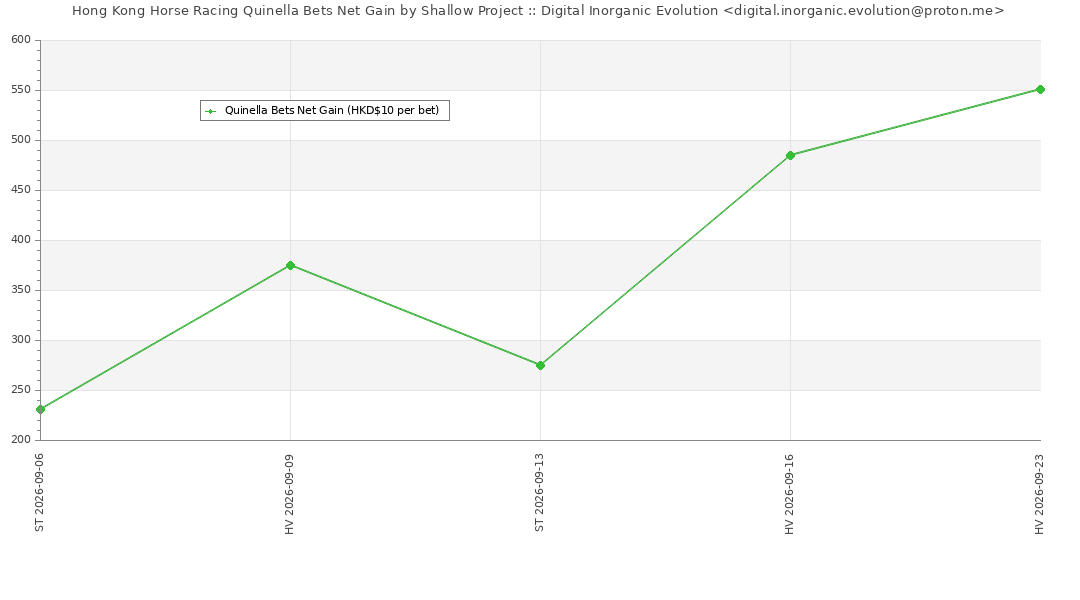
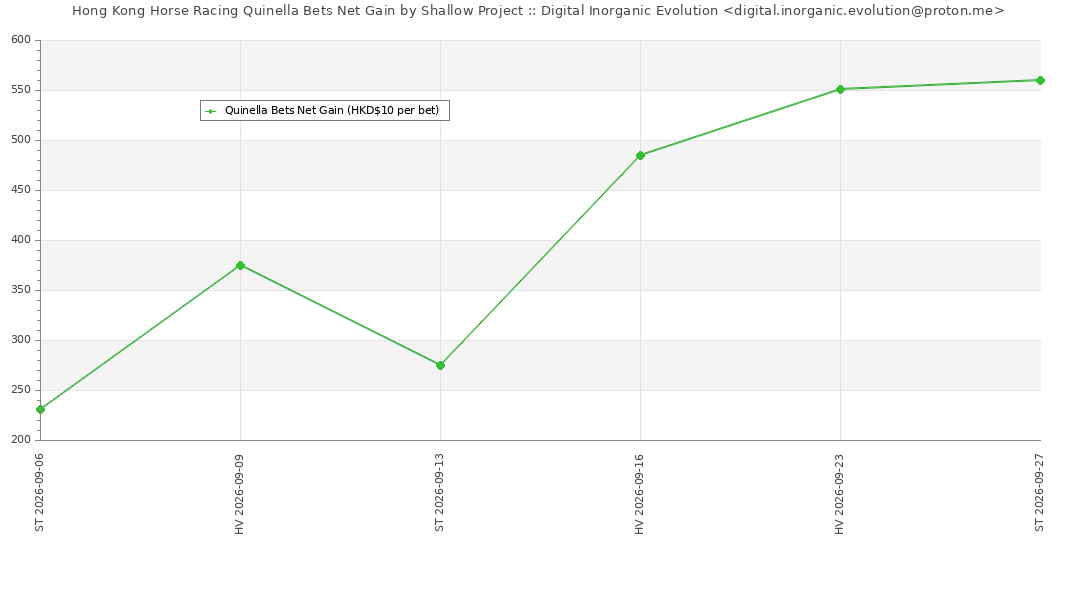
HKCJ Results 2026-09-27

diff --git a/shallow.html b/shallow.html
@@ -21,7 +21,7 @@
 <hr>
 <p>
 <h2>Betting Details</h2>
-	<table border=1><table id='shallow-table' class='cell-border compact stripe nowrap' border=1><thead><tr><th>RaceDate</th><th>RaceNo</th><th>H1HorseNo</th><th>H2HorseNo</th><th>H1Place</th><th>H2Place</th><th>Dividend Quinella</th></tr></thead><tbody><tr><td>2026-09-06</td><td>01</td><td>4</td><td>11</td><td>6</td><td>5</td><td>-10</td></tr><tr><td>2026-09-06</td><td>02</td><td>1</td><td>6</td><td>1</td><td>5</td><td>-10</td></tr><tr><td>2026-09-06</td><td>03</td><td>1</td><td>3</td><td>1</td><td>6</td><td>-10</td></tr><tr><td>2026-09-06</td><td>04</td><td>1</td><td>12</td><td>2</td><td>12</td><td>-10</td></tr><tr><td>2026-09-06</td><td>05</td><td>1</td><td>11</td><td>13</td><td>9</td><td>-10</td></tr><tr><td>2026-09-06</td><td>06</td><td>1</td><td>3</td><td><font color=red>1</font></td><td><font color=red>2</font></td><td><font color=red>153.50</font></td></tr><tr><td>2026-09-06</td><td>07</td><td>3</td><td>4</td><td>6</td><td>8</td><td>-10</td></tr><tr><td>2026-09-06</td><td>08</td><td>1</td><td>2</td><td><font color=red>1</font></td><td><font color=red>2</font></td><td><font color=red>177.50</font></td></tr><tr><td>2026-09-06</td><td>09</td><td>4</td><td>5</td><td>4</td><td>1</td><td>-10</td></tr><tr><td>2026-09-06</td><td>10</td><td>6</td><td>12</td><td>9</td><td>12</td><td>-10</td></tr><tr><td>2026-09-09</td><td>01</td><td>5</td><td>10</td><td>3</td><td>4</td><td>-10</td></tr><tr><td>2026-09-09</td><td>02</td><td>1</td><td>9</td><td>1</td><td>4</td><td>-10</td></tr><tr><td>2026-09-09</td><td>03</td><td>4</td><td>11</td><td>4</td><td>3</td><td>-10</td></tr><tr><td>2026-09-09</td><td>04</td><td>2</td><td>4</td><td>4</td><td>2</td><td>-10</td></tr><tr><td>2026-09-09</td><td>05</td><td>4</td><td>5</td><td>6</td><td>4</td><td>-10</td></tr><tr><td>2026-09-09</td><td>06</td><td>2</td><td>5</td><td>12</td><td>3</td><td>-10</td></tr><tr><td>2026-09-09</td><td>07</td><td>1</td><td>2</td><td><font color=red>1</font></td><td><font color=red>2</font></td><td><font color=red>224.00</font></td></tr><tr><td>2026-09-09</td><td>08</td><td>8</td><td>10</td><td>4</td><td>7</td><td>-10</td></tr><tr><td>2026-09-13</td><td>01</td><td>10</td><td>11</td><td>1</td><td>3</td><td>-10</td></tr><tr><td>2026-09-13</td><td>02</td><td>8</td><td>11</td><td>1</td><td>3</td><td>-10</td></tr><tr><td>2026-09-13</td><td>03</td><td>4</td><td>12</td><td>6</td><td>7</td><td>-10</td></tr><tr><td>2026-09-13</td><td>04</td><td>2</td><td>11</td><td>1</td><td>6</td><td>-10</td></tr><tr><td>2026-09-13</td><td>05</td><td>2</td><td>11</td><td>1</td><td>5</td><td>-10</td></tr><tr><td>2026-09-13</td><td>06</td><td>5</td><td>9</td><td>2</td><td>4</td><td>-10</td></tr><tr><td>2026-09-13</td><td>07</td><td>3</td><td>13</td><td>6</td><td>12</td><td>-10</td></tr><tr><td>2026-09-13</td><td>08</td><td>12</td><td>13</td><td>5</td><td>6</td><td>-10</td></tr><tr><td>2026-09-13</td><td>09</td><td>2</td><td>4</td><td>3</td><td>4</td><td>-10</td></tr><tr><td>2026-09-13</td><td>10</td><td>1</td><td>11</td><td>9</td><td>7</td><td>-10</td></tr><tr><td>2026-09-16</td><td>01</td><td>2</td><td>7</td><td>8</td><td>7</td><td>-10</td></tr><tr><td>2026-09-16</td><td>02</td><td>3</td><td>8</td><td><font color=red>1</font></td><td><font color=red>2</font></td><td><font color=red>110.50</font></td></tr><tr><td>2026-09-16</td><td>03</td><td>6</td><td>7</td><td><font color=red>2</font></td><td><font color=red>1</font></td><td><font color=red>179.50</font></td></tr><tr><td>2026-09-16</td><td>04</td><td>3</td><td>12</td><td>1</td><td>3</td><td>-10</td></tr><tr><td>2026-09-16</td><td>05</td><td>6</td><td>8</td><td>1</td><td>6</td><td>-10</td></tr><tr><td>2026-09-16</td><td>06</td><td>2</td><td>3</td><td>1</td><td>9</td><td>-10</td></tr><tr><td>2026-09-16</td><td>07</td><td>2</td><td>8</td><td>10</td><td>8</td><td>-10</td></tr><tr><td>2026-09-16</td><td>08</td><td>6</td><td>8</td><td>6</td><td>11</td><td>-10</td></tr><tr><td>2026-09-23</td><td>01</td><td>3</td><td>11</td><td>5</td><td>2</td><td>-10</td></tr><tr><td>2026-09-23</td><td>02</td><td>7</td><td>10</td><td>12</td><td>1</td><td>-10</td></tr><tr><td>2026-09-23</td><td>03</td><td>2</td><td>8</td><td><font color=red>2</font></td><td><font color=red>1</font></td><td><font color=red>155.50</font></td></tr><tr><td>2026-09-23</td><td>04</td><td>6</td><td>11</td><td>2</td><td>7</td><td>-10</td></tr><tr><td>2026-09-23</td><td>05</td><td>5</td><td>6</td><td>6</td><td>1</td><td>-10</td></tr><tr><td>2026-09-23</td><td>06</td><td>4</td><td>9</td><td>3</td><td>7</td><td>-10</td></tr><tr><td>2026-09-23</td><td>07</td><td>2</td><td>6</td><td>5</td><td>8</td><td>-10</td></tr><tr><td>2026-09-23</td><td>08</td><td>1</td><td>8</td><td>12</td><td>1</td><td>-10</td></tr><tr><td>2026-09-23</td><td>09</td><td>1</td><td>3</td><td>10</td><td>12</td><td>-10</td></tr></tbody></table></table><table border=1><tr><td>Num. Bets</td><td>Num. Quinella Win</td><td>Quinella Accuracy</td><td>Bet Total$</td><td>Quinella Win$</td><td>Ratio</td></tr><td>45</td><td>6</td><td>0.133</td><td>$450</td><td><font color=red>$1000.5 ($550.5)</font></td><td>1.22</td></tr><table border=1><hr>		<li><i>Enquiries: digital.inorganic.evolution@proton.me</i></li>
+	<table border=1><table id='shallow-table' class='cell-border compact stripe nowrap' border=1><thead><tr><th>RaceDate</th><th>RaceNo</th><th>H1HorseNo</th><th>H2HorseNo</th><th>H1Place</th><th>H2Place</th><th>Dividend Quinella</th></tr></thead><tbody><tr><td>2026-09-06</td><td>01</td><td>4</td><td>11</td><td>6</td><td>5</td><td>-10</td></tr><tr><td>2026-09-06</td><td>02</td><td>1</td><td>6</td><td>1</td><td>5</td><td>-10</td></tr><tr><td>2026-09-06</td><td>03</td><td>1</td><td>3</td><td>1</td><td>6</td><td>-10</td></tr><tr><td>2026-09-06</td><td>04</td><td>1</td><td>12</td><td>2</td><td>12</td><td>-10</td></tr><tr><td>2026-09-06</td><td>05</td><td>1</td><td>11</td><td>13</td><td>9</td><td>-10</td></tr><tr><td>2026-09-06</td><td>06</td><td>1</td><td>3</td><td><font color=red>1</font></td><td><font color=red>2</font></td><td><font color=red>153.50</font></td></tr><tr><td>2026-09-06</td><td>07</td><td>3</td><td>4</td><td>6</td><td>8</td><td>-10</td></tr><tr><td>2026-09-06</td><td>08</td><td>1</td><td>2</td><td><font color=red>1</font></td><td><font color=red>2</font></td><td><font color=red>177.50</font></td></tr><tr><td>2026-09-06</td><td>09</td><td>4</td><td>5</td><td>4</td><td>1</td><td>-10</td></tr><tr><td>2026-09-06</td><td>10</td><td>6</td><td>12</td><td>9</td><td>12</td><td>-10</td></tr><tr><td>2026-09-09</td><td>01</td><td>5</td><td>10</td><td>3</td><td>4</td><td>-10</td></tr><tr><td>2026-09-09</td><td>02</td><td>1</td><td>9</td><td>1</td><td>4</td><td>-10</td></tr><tr><td>2026-09-09</td><td>03</td><td>4</td><td>11</td><td>4</td><td>3</td><td>-10</td></tr><tr><td>2026-09-09</td><td>04</td><td>2</td><td>4</td><td>4</td><td>2</td><td>-10</td></tr><tr><td>2026-09-09</td><td>05</td><td>4</td><td>5</td><td>6</td><td>4</td><td>-10</td></tr><tr><td>2026-09-09</td><td>06</td><td>2</td><td>5</td><td>12</td><td>3</td><td>-10</td></tr><tr><td>2026-09-09</td><td>07</td><td>1</td><td>2</td><td><font color=red>1</font></td><td><font color=red>2</font></td><td><font color=red>224.00</font></td></tr><tr><td>2026-09-09</td><td>08</td><td>8</td><td>10</td><td>4</td><td>7</td><td>-10</td></tr><tr><td>2026-09-13</td><td>01</td><td>10</td><td>11</td><td>1</td><td>3</td><td>-10</td></tr><tr><td>2026-09-13</td><td>02</td><td>8</td><td>11</td><td>1</td><td>3</td><td>-10</td></tr><tr><td>2026-09-13</td><td>03</td><td>4</td><td>12</td><td>6</td><td>7</td><td>-10</td></tr><tr><td>2026-09-13</td><td>04</td><td>2</td><td>11</td><td>1</td><td>6</td><td>-10</td></tr><tr><td>2026-09-13</td><td>05</td><td>2</td><td>11</td><td>1</td><td>5</td><td>-10</td></tr><tr><td>2026-09-13</td><td>06</td><td>5</td><td>9</td><td>2</td><td>4</td><td>-10</td></tr><tr><td>2026-09-13</td><td>07</td><td>3</td><td>13</td><td>6</td><td>12</td><td>-10</td></tr><tr><td>2026-09-13</td><td>08</td><td>12</td><td>13</td><td>5</td><td>6</td><td>-10</td></tr><tr><td>2026-09-13</td><td>09</td><td>2</td><td>4</td><td>3</td><td>4</td><td>-10</td></tr><tr><td>2026-09-13</td><td>10</td><td>1</td><td>11</td><td>9</td><td>7</td><td>-10</td></tr><tr><td>2026-09-16</td><td>01</td><td>2</td><td>7</td><td>8</td><td>7</td><td>-10</td></tr><tr><td>2026-09-16</td><td>02</td><td>3</td><td>8</td><td><font color=red>1</font></td><td><font color=red>2</font></td><td><font color=red>110.50</font></td></tr><tr><td>2026-09-16</td><td>03</td><td>6</td><td>7</td><td><font color=red>2</font></td><td><font color=red>1</font></td><td><font color=red>179.50</font></td></tr><tr><td>2026-09-16</td><td>04</td><td>3</td><td>12</td><td>1</td><td>3</td><td>-10</td></tr><tr><td>2026-09-16</td><td>05</td><td>6</td><td>8</td><td>1</td><td>6</td><td>-10</td></tr><tr><td>2026-09-16</td><td>06</td><td>2</td><td>3</td><td>1</td><td>9</td><td>-10</td></tr><tr><td>2026-09-16</td><td>07</td><td>2</td><td>8</td><td>10</td><td>8</td><td>-10</td></tr><tr><td>2026-09-16</td><td>08</td><td>6</td><td>8</td><td>6</td><td>11</td><td>-10</td></tr><tr><td>2026-09-23</td><td>01</td><td>3</td><td>11</td><td>5</td><td>2</td><td>-10</td></tr><tr><td>2026-09-23</td><td>02</td><td>7</td><td>10</td><td>12</td><td>1</td><td>-10</td></tr><tr><td>2026-09-23</td><td>03</td><td>2</td><td>8</td><td><font color=red>2</font></td><td><font color=red>1</font></td><td><font color=red>155.50</font></td></tr><tr><td>2026-09-23</td><td>04</td><td>6</td><td>11</td><td>2</td><td>7</td><td>-10</td></tr><tr><td>2026-09-23</td><td>05</td><td>5</td><td>6</td><td>6</td><td>1</td><td>-10</td></tr><tr><td>2026-09-23</td><td>06</td><td>4</td><td>9</td><td>3</td><td>7</td><td>-10</td></tr><tr><td>2026-09-23</td><td>07</td><td>2</td><td>6</td><td>5</td><td>8</td><td>-10</td></tr><tr><td>2026-09-23</td><td>08</td><td>1</td><td>8</td><td>12</td><td>1</td><td>-10</td></tr><tr><td>2026-09-23</td><td>09</td><td>1</td><td>3</td><td>10</td><td>12</td><td>-10</td></tr><tr><td>2026-09-27</td><td>01</td><td>1</td><td>2</td><td>8</td><td>6</td><td>-10</td></tr><tr><td>2026-09-27</td><td>02</td><td>2</td><td>10</td><td>8</td><td>5</td><td>-10</td></tr><tr><td>2026-09-27</td><td>03</td><td>2</td><td>9</td><td>10</td><td>12</td><td>-10</td></tr><tr><td>2026-09-27</td><td>04</td><td>1</td><td>6</td><td>4</td><td>1</td><td>-10</td></tr><tr><td>2026-09-27</td><td>05</td><td>5</td><td>6</td><td>2</td><td>5</td><td>-10</td></tr><tr><td>2026-09-27</td><td>06</td><td>4</td><td>8</td><td>7</td><td>8</td><td>-10</td></tr><tr><td>2026-09-27</td><td>07</td><td>8</td><td>12</td><td><font color=red>1</font></td><td><font color=red>2</font></td><td><font color=red>119.50</font></td></tr><tr><td>2026-09-27</td><td>08</td><td>2</td><td>8</td><td>8</td><td>9</td><td>-10</td></tr><tr><td>2026-09-27</td><td>09</td><td>8</td><td>13</td><td>1</td><td>13</td><td>-10</td></tr><tr><td>2026-09-27</td><td>10</td><td>3</td><td>8</td><td>7</td><td>3</td><td>-10</td></tr><tr><td>2026-09-27</td><td>11</td><td>2</td><td>3</td><td>7</td><td>1</td><td>-10</td></tr></tbody></table></table><table border=1><tr><td>Num. Bets</td><td>Num. Quinella Win</td><td>Quinella Accuracy</td><td>Bet Total$</td><td>Quinella Win$</td><td>Ratio</td></tr><td>56</td><td>7</td><td>0.125</td><td>$560</td><td><font color=red>$1120 ($560)</font></td><td>1</td></tr><table border=1><hr>		<li><i>Enquiries: digital.inorganic.evolution@proton.me</i></li>
 		<hr>
 <p>
 <a href="https://github.com/Digital-Inorganic-Evolution/Digital-Inorganic-Evolution.github.io/commits/main/" target="_blank">Check Commits on GitHub</a>
@@ -29,7 +29,7 @@
 <i>Research Disclaimer: Predictions published by the SHALLOW (Digital Inorganic Evolution Research Project) are provided solely for research, educational, and model verification purposes. 
 They are intended to enable transparent evaluation of experimental results and are not betting advice, gambling recommendations, or financial advice. The project does not promote or encourage gambling. Any betting decisions made by individuals are entirely their own responsibility.</i>
 <p>
-<h4>Generated at HKT 2026-09-25 18:38:00</h4>
+<h4>Generated at HKT 2026-09-27 20:58:47</h4>
 	
 <script src="https://code.jquery.com/jquery-3.7.1.min.js"></script>
 <script type="text/javascript" src="https://cdn.datatables.net/2.3.7/js/dataTables.min.js"></script>  

diff --git a/dissent.html b/dissent.html
@@ -62,11 +62,11 @@
 
 <tr><td>2026-09-12</td><td>Lingfield</td><td>1413</td><td>Hebridean Nomad</td><td>4</td><td>0</td><td>0.95</td></tr>
 
-<tr><td>2026-09-12</td><td>Chester</td><td>1742</td><td>Haveyoumissedme</td><td>8</td><td>0</td><td>-0.05</td></tr>
+<tr><td>2026-09-12</td><td>Chester</td><td>1405</td><td>Tribal Star</td><td>4</td><td>0</td><td>-0.05</td></tr>
 
 <tr><td>2026-09-12</td><td>Bath</td><td>1320</td><td>Shahbaz</td><td>4</td><td>0</td><td>-1.05</td></tr>
 
-<tr><td>2026-09-12</td><td>Chester</td><td>1405</td><td>Tribal Star</td><td>4</td><td>0</td><td>-2.05</td></tr>
+<tr><td>2026-09-12</td><td>Chester</td><td>1742</td><td>Haveyoumissedme</td><td>8</td><td>0</td><td>-2.05</td></tr>
 
 <tr><td>2026-09-13</td><td>Bath</td><td>1515</td><td>Percy Jones</td><td>3</td><td>0</td><td>-3.05</td></tr>
 
@@ -82,9 +82,9 @@
 
 <tr><td>2026-09-17</td><td>Southwell</td><td>1725</td><td>Charging Thunder</td><td>4</td><td>0</td><td>-9.05</td></tr>
 
-<tr><td>2026-09-18</td><td>Ayr</td><td>1720</td><td>Cascade Hall</td><td>2</td><td>0</td><td>-10.05</td></tr>
+<tr><td>2026-09-18</td><td>Wolverhampton</td><td>1945</td><td>Billy Bathgate</td><td>6</td><td>0</td><td>-10.05</td></tr>
 
-<tr><td>2026-09-18</td><td>Wolverhampton</td><td>1945</td><td>Billy Bathgate</td><td>6</td><td>0</td><td>-11.05</td></tr>
+<tr><td>2026-09-18</td><td>Ayr</td><td>1720</td><td>Cascade Hall</td><td>2</td><td>0</td><td>-11.05</td></tr>
 
 <tr><td>2026-09-19</td><td>Newbury</td><td>1337</td><td>Primo Lara</td><td>3</td><td>0</td><td>-12.05</td></tr>
 
@@ -101,6 +101,10 @@
 <tr><td>2026-09-24</td><td>Newmarket</td><td>1610</td><td>First Officer</td><td>6</td><td>0</td><td>-11.47</td></tr>
 
 <tr><td>2026-09-24</td><td>Pontefract</td><td>1627</td><td>L'Eagle Aid</td><td>3</td><td>0</td><td>-12.47</td></tr>
+
+<tr><td>2026-09-25</td><td>Haydock Park</td><td>1723</td><td>Kotari</td><td>2</td><td>0</td><td>-13.47</td></tr>
+
+<tr><td>2026-09-26</td><td>Ripon</td><td>1745</td><td>Sax Appeal</td><td>1</td><td>5.5</td><td>-8.97</td></tr>
 </tbody></table>	<li><i>Enquiries: digital.inorganic.evolution@proton.me</i></li>
 	<hr>
 <p>
@@ -109,7 +113,7 @@
 <i>Research Disclaimer: Predictions published by the DISSENT (Digital Inorganic Evolution Research Project) are provided solely for research, educational, and model verification purposes. 
 They are intended to enable transparent evaluation of experimental results and are not betting advice, gambling recommendations, or financial advice. The project does not promote or encourage gambling. Any betting decisions made by individuals are entirely their own responsibility.</i>
 <p>
-<h4>Generated at HKT 2026-09-25 18:38:03</h4>
+<h4>Generated at HKT 2026-09-27 20:58:49</h4>
 	
 <script src="https://code.jquery.com/jquery-3.7.1.min.js"></script>
 <script type="text/javascript" src="https://cdn.datatables.net/2.3.7/js/dataTables.min.js"></script>  
